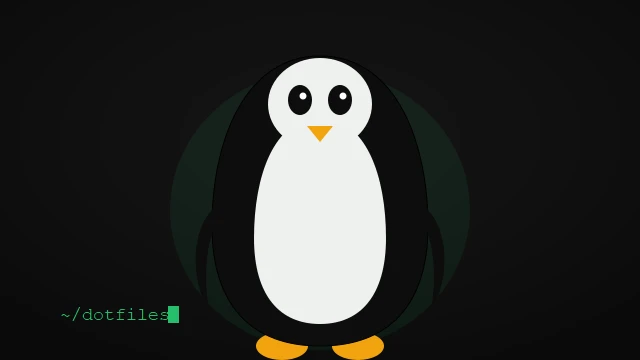
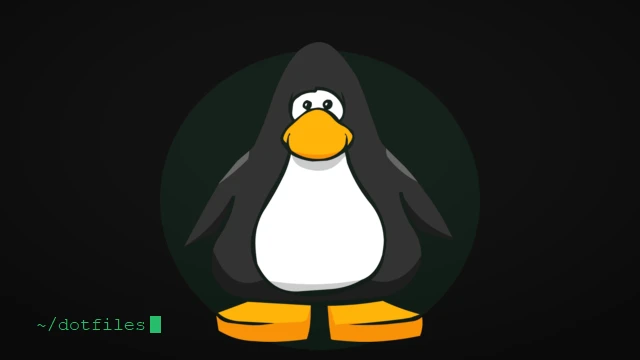
feat(projects): split short/full descriptions, add stack badges, use real assets for dotfiles/RVWheel
Data model (src/app/data/projects.data.ts): renamed the unused `tags?`
field to a required `stack: string[]` - it already existed on every
project but was never rendered anywhere, so this reuses it instead of
adding a parallel field. Cleaned entries to be actual technologies
(dropped non-tech labels like "API", "Fullstack", "Algorithms") and
verified each one against its real repo (fetched all 12 pre-existing
READMEs) rather than guessing.

i18n (public/i18n/en.json, pt.json): every project's `description` key
split into `shortDescription` (card blurb - reused the existing
one-liners as-is) and a new, longer `description` grounded in each
repo's actual README (objective, stack, one or two implementation
details worth mentioning) for the detail page. 92/92 keys, EN/PT parity
verified.

Components:
- project-card now reads `shortDescription` instead of `description`.
- project-detail-page renders the full `description`, plus `stack` as
  a badge list (new `__stack`/`__stack-badge` styles reusing existing
  color/spacing/radius tokens, no new component - none of the existing
  UI had a badge pattern to reuse).
- project-card.spec.ts's inline Project fixture updated for the new
  required `stack` field.

Assets: replaced the placeholder SVG illustrations for dotfiles and
RVWheel with the real assets provided - a Tux PNG (chroma-keyed to
transparent, composited onto the site's dark gradient) for dotfiles,
and the game's own screenshot with the provided wheel PNG composited
[…]

Changed region(s): [[0.2812, 0.1222, 0.7188, 1.0], [0.0625, 0.8556, 0.2812, 0.9472]]

diff --git a/src/app/data/projects.data.ts b/src/app/data/projects.data.ts
@@ -6,7 +6,7 @@ export interface Project {
     github?: string;
     demo?: string;
   };
-  tags?: string[];
+  stack: string[];
   featured?: boolean;
   command?: string;
 }
@@ -18,7 +18,7 @@ export const projectsData: Project[] = [
     links: {
       demo: 'https://veronesemaquetes.com.br',
     },
-    tags: ['Angular', 'GOlang', 'AWS Lambda'],
+    stack: ['Angular', 'Go', 'AWS Lambda'],
     featured: true,
     command: 'glow maquetaria.md',
   },
@@ -29,7 +29,7 @@ export const projectsData: Project[] = [
     links: {
       github: 'https://github.com/gustavommcv/minimal-neovim',
     },
-    tags: ['Lua', 'Neovim', 'CLI'],
+    stack: ['Lua', 'Neovim', 'lazy.nvim'],
     featured: true,
     command: 'glow neovim.md',
   },
@@ -41,7 +41,7 @@ export const projectsData: Project[] = [
     links: {
       github: 'https://github.com/gustavommcv/gomodoro',
     },
-    tags: ['Go', 'CLI', 'Productivity'],
+    stack: ['Go', 'Lua'],
     featured: true,
     command: 'gomodoro',
   },
@@ -53,7 +53,7 @@ export const projectsData: Project[] = [
       github: 'https://github.com/gustavommcv/chmod_calculator',
       demo: 'https://gustavommcv.github.io/chmod_calculator/',
     },
-    tags: ['JavaScript', 'HTML/CSS'],
+    stack: ['JavaScript', 'HTML', 'CSS'],
     featured: true,
     command: 'glow chmod.md',
   },
@@ -64,7 +64,7 @@ export const projectsData: Project[] = [
     links: {
       github: 'https://github.com/gustavommcv/terminal-portfolio',
     },
-    tags: ['Angular', 'TypeScript', 'Terminal'],
+    stack: ['Angular', 'TypeScript', 'SCSS'],
     command: 'glow terminal-portfolio.md',
     featured: true,
   },
@@ -75,7 +75,7 @@ export const projectsData: Project[] = [
     links: {
       github: 'https://github.com/gustavommcv/sistema-de-votacao-client',
     },
-    tags: ['Angular', 'Node.js', 'Fullstack'],
+    stack: ['Angular', 'TypeScript', 'RxJS', 'WebSockets'],
     command: 'glow voting.md',
   },
 
@@ -86,7 +86,7 @@ export const projectsData: Project[] = [
       github:
         'https://github.com/gustavommcv/Desafio-Bootcamp-Arquitetura-de-Software',
     },
-    tags: ['Java', 'Spring Boot', 'API'],
+    stack: ['TypeScript', 'Express', 'MariaDB', 'Docker'],
     command: 'glow xp1.md',
   },
 
@@ -96,7 +96,7 @@ export const projectsData: Project[] = [
     links: {
       github: 'https://github.com/gustavommcv/Desafio-API-Itau',
     },
-    tags: ['Node.js', 'Express', 'API'],
+    stack: ['Java', 'Spring Boot'],
     command: 'glow itau1.md',
   },
   {
@@ -105,7 +105,7 @@ export const projectsData: Project[] = [
     links: {
       github: 'https://github.com/gustavommcv/BooksApp_frontend',
     },
-    tags: ['React', 'Node.js', 'Fullstack'],
+    stack: ['React', 'SCSS', 'Vite'],
     command: 'glow booksapp.md',
   },
 
@@ -115,7 +115,7 @@ export const projectsData: Project[] = [
     links: {
       github: 'https://github.com/gustavommcv/AirlockRest',
     },
-    tags: ['Java', 'Clean Architecture', 'API'],
+    stack: ['TypeScript', 'Express', 'MariaDB', 'JWT'],
     command: 'glow airlock.md',
   },
 
@@ -127,7 +127,7 @@ export const projectsData: Project[] = [
       github: 'https://github.com/gustavommcv/portfolio',
       demo: 'https://gustavommcv.github.io/portfolio/#/',
     },
-    tags: ['Solid.js', 'TypeScript'],
+    stack: ['Solid.js', 'TypeScript', 'Vite'],
     command: 'glow portfolio.md',
   },
 
@@ -137,7 +137,7 @@ export const projectsData: Project[] = [
     links: {
       github: 'https://github.com/gustavommcv/TicTacToe',
     },
-    tags: ['C#', 'Algorithms'],
+    stack: ['C#', '.NET'],
     command: 'glow ttt.md',
   },
 
@@ -147,7 +147,7 @@ export const projectsData: Project[] = [
     links: {
       github: 'https://github.com/gustavommcv/to-do-app-main',
     },
-    tags: ['React', 'Node.js', 'Fullstack'],
+    stack: ['React', 'Node.js', 'JWT'],
     command: 'glow todo.md',
   },
 
@@ -159,7 +159,7 @@ export const projectsData: Project[] = [
       github: 'https://github.com/gustavommcv/JSON-Visual-Editor',
       demo: 'https://gustavommcv.github.io/JSON-Visual-Editor/',
     },
-    tags: ['Vue', 'TypeScript', 'Vite'],
+    stack: ['Vue', 'TypeScript', 'Vite'],
     command: 'glow json-editor.md',
   },
 
@@ -169,7 +169,7 @@ export const projectsData: Project[] = [
     links: {
       github: 'https://github.com/gustavommcv/RVWheel',
     },
-    tags: ['C++', 'DirectInput', 'CMake'],
+    stack: ['C++', 'CMake', 'DirectInput'],
     command: 'glow rvwheel.md',
   },
 
@@ -179,7 +179,7 @@ export const projectsData: Project[] = [
     links: {
       github: 'https://github.com/gustavommcv/dotfiles',
     },
-    tags: ['Hyprland', 'Linux', 'Shell'],
+    stack: ['Hyprland', 'Waybar', 'Zsh'],
     command: 'glow dotfiles.md',
   },
 ];

diff --git a/src/app/features/projectDetail/project-detail-page/project-detail-page.scss b/src/app/features/projectDetail/project-detail-page/project-detail-page.scss
@@ -80,6 +80,27 @@
     }
   }
 
+  &__stack {
+    display: flex;
+    flex-wrap: wrap;
+    justify-content: center;
+    gap: $spacing-xsmall;
+    list-style: none;
+    padding: 0;
+    margin: 0 0 $spacing-medium;
+  }
+
+  &__stack-badge {
+    font-family: $font-family-default;
+    font-size: $font-size-xsmall;
+    color: $color-subtitle-dark;
+
+    background-color: $color-button-background;
+    border: 1px solid $color-subtitle-dark;
+    border-radius: $border-radius-default;
+    padding: 0.4rem 1.2rem;
+  }
+
   &__links {
     display: flex;
     flex-direction: column;

diff --git a/src/app/features/projectDetail/project-detail-page/project-detail-page.html b/src/app/features/projectDetail/project-detail-page/project-detail-page.html
@@ -26,6 +26,13 @@
             "projects-page.projects." + project.id + ".description" | translate
             }}
           </p>
+          @if (project.stack.length) {
+            <ul class="project-detail-page__stack">
+              @for (tech of project.stack; track tech) {
+                <li class="project-detail-page__stack-badge">{{ tech }}</li>
+              }
+            </ul>
+          }
           <div class="project-detail-page__links">
             @if (project.links.github) {
               <a

diff --git a/src/app/core/shared/project-card/project-card.html b/src/app/core/shared/project-card/project-card.html
@@ -17,7 +17,10 @@
       {{ "projects-page.projects." + project.id + ".title" | translate }}
     </h3>
     <p class="project-card__description">
-      {{ "projects-page.projects." + project.id + ".description" | translate }}
+      {{
+        "projects-page.projects." + project.id + ".shortDescription"
+          | translate
+      }}
     </p>
   </div>
 </a>

diff --git a/src/app/core/shared/project-card/project-card.spec.ts b/src/app/core/shared/project-card/project-card.spec.ts
@@ -8,6 +8,7 @@ describe('ProjectCard', () => {
     id: 'test-project',
     image: 'images/test-project.webp',
     links: {},
+    stack: [],
   };
 
   let fixture: ComponentFixture<ProjectCard>;
